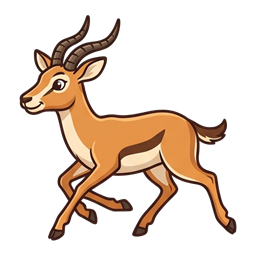
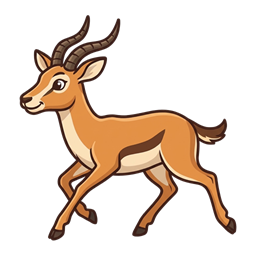
Fix impala with five legs (base, clay and origami redrawn with four)

Changed region(s): [[0.3125, 0.7188, 0.5312, 0.8438]]

diff --git a/sw.js b/sw.js
@@ -1,5 +1,5 @@
 // Network-first service worker: always tries the latest version, falls back to cache offline.
-const CACHE = "animal-draft-v10";
+const CACHE = "animal-draft-v11";
 const FILES = ["./", "index.html", "app.js", "engine.js", "save.js", "achievements.js", "skins.js", "manifest.webmanifest", "icon.svg",
   "img/animals/bison.png","img/animals/camel.png","img/animals/cheetah.png","img/animals/chimpanzee.png","img/animals/crocodile.png","img/animals/dolphin.png","img/animals/eagle.png","img/animals/elephant.png","img/animals/fox.png","img/animals/frog.png","img/animals/giraffe.png","img/animals/gorilla.png","img/animals/grizzly.png","img/animals/hippo.png","img/animals/honeybadger.png","img/animals/horse.png","img/animals/impala.png","img/animals/jaguar.png","img/animals/kangaroo.png","img/animals/komodo.png","img/animals/lion.png","img/animals/moose.png","img/animals/mountaingoat.png","img/animals/ostrich.png","img/animals/otter.png","img/animals/panda.png","img/animals/penguin.png","img/animals/polarbear.png","img/animals/puma.png","img/animals/rabbit.png","img/animals/rhino.png","img/animals/sealion.png","img/animals/shark.png","img/animals/sloth.png","img/animals/squirrel.png","img/animals/tiger.png","img/animals/tortoise.png","img/animals/wildboar.png","img/animals/wolf.png","img/animals/zebra.png",
   "img/skins/baby/bison.png","img/skins/baby/camel.png","img/skins/baby/cheetah.png","img/skins/baby/chimpanzee.png","img/skins/baby/crocodile.png","img/skins/baby/dolphin.png","img/skins/baby/eagle.png","img/skins/baby/elephant.png","img/skins/baby/fox.png","img/skins/baby/frog.png","img/skins/baby/giraffe.png","img/skins/baby/gorilla.png","img/skins/baby/grizzly.png","img/skins/baby/hippo.png","img/skins/baby/honeybadger.png","img/skins/baby/horse.png","img/skins/baby/impala.png","img/skins/baby/jaguar.png","img/skins/baby/kangaroo.png","img/skins/baby/komodo.png","img/skins/baby/lion.png","img/skins/baby/moose.png","img/skins/baby/mountaingoat.png","img/skins/baby/ostrich.png","img/skins/baby/otter.png","img/skins/baby/panda.png","img/skins/baby/penguin.png","img/skins/baby/polarbear.png","img/skins/baby/puma.png","img/skins/baby/rabbit.png","img/skins/baby/rhino.png","img/skins/baby/sealion.png","img/skins/baby/shark.png","img/skins/baby/sloth.png","img/skins/baby/squirrel.png","img/skins/baby/tiger.png","img/skins/baby/tortoise.png","img/skins/baby/wildboar.png","img/skins/baby/wolf.png","img/skins/baby/zebra.png","img/skins/pixel/bison.png","img/skins/pixel/camel.png","img/skins/pixel/cheetah.png","img/skins/pixel/chimpanzee.png","img/skins/pixel/crocodile.png","img/skins/pixel/dolphin.png","img/skins/pixel/eagle.png","img/skins/pixel/elephant.png","img/skins/pixel/fox.png","img/skins/pixel/frog.png","img/skins/pixel/giraffe.png","img/skins/pixel/gorilla.png","img/skins/pixel/grizzly.png","img/skins/pixel/hippo.png","img/skins/pixel/honeybadger.png","img/skins/pixel/horse.png","img/skins/pixel/impala.png","img/skins/pixel/jaguar.png","img/skins/pixel/kangaroo.png","img/skins/pixel/komodo.png","img/skins/pixel/lion.png","img/skins/pixel/moose.png","img/skins/pixel/mountaingoat.png","img/skins/pixel/ostrich.png","img/skins/pixel/otter.png","img/skins/pixel/panda.png","img/skins/pixel/penguin.png","img/skins/pixel/polarbear.png","img/skins/pixel/puma.png","img/skins/pixel/rabbit.png","img/skins/pixel/rhino.png","img/skins/pixel/sealion.png","img/skins/pixel/shark.png","img/skins/pixel/sloth.png","img/skins/pixel/squirrel.png","img/skins/pixel/tiger.png","img/skins/pixel/tortoise.png","img/skins/pixel/wildboar.png","img/skins/pixel/wolf.png","img/skins/pixel/zebra.png",
